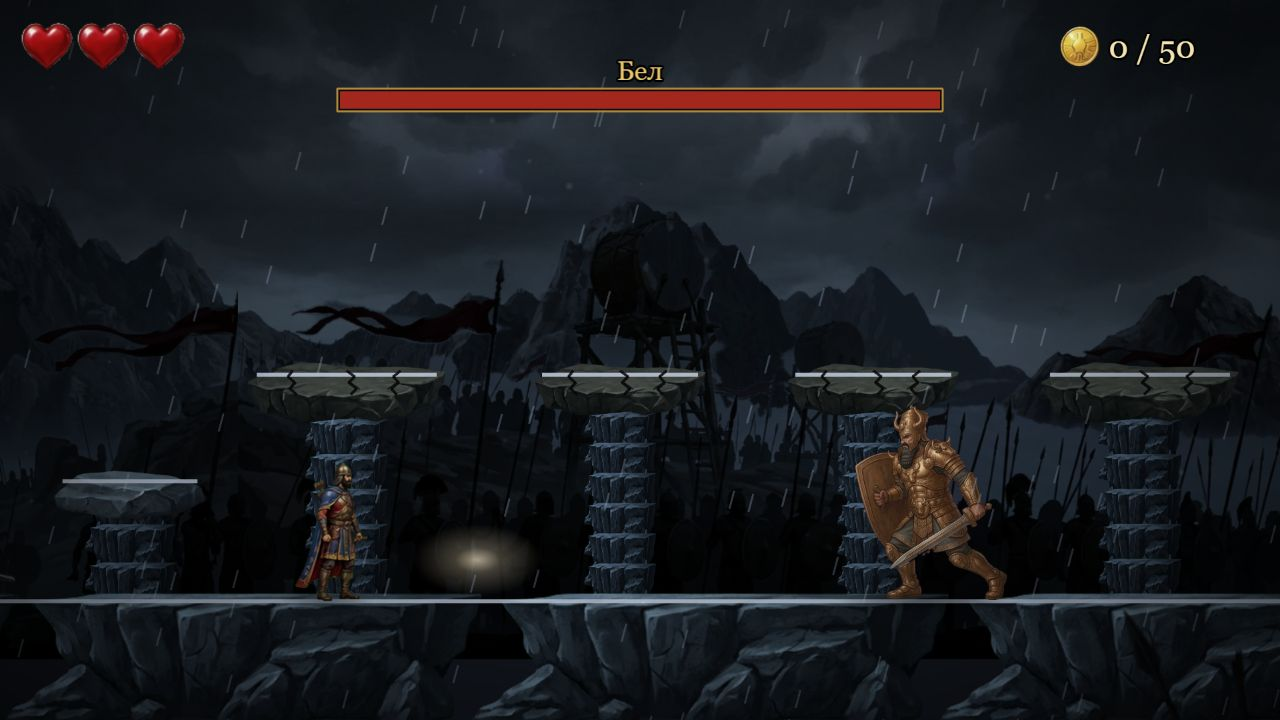
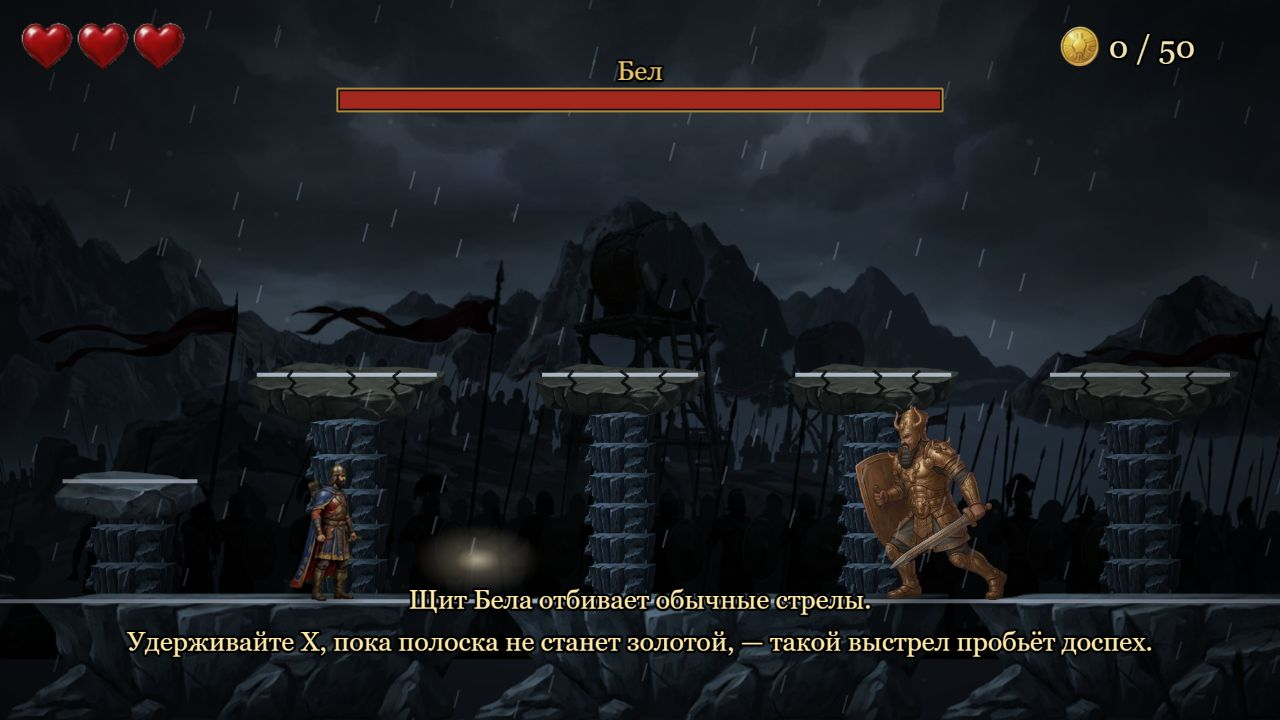
Подсказки в бою с Белом: как ранить его заряженным выстрелом (на трёх языках)

Changed region(s): [[0.0938, 0.825, 0.9062, 0.9167], [0.2188, 0.6417, 0.2812, 0.8556]]

diff --git a/src/i18n.js b/src/i18n.js
@@ -28,6 +28,8 @@ const TEXT = {
     pause: 'Пауза',
     pauseHint: 'Esc — продолжить     M — выйти в меню',
     boss: 'Бел',
+    'boss.hint': 'Щит Бела отбивает обычные стрелы.\nУдерживайте X, пока полоска не станет золотой, — такой выстрел пробьёт доспех.',
+    'boss.hintShort': 'Стрела отскочила! Удерживайте X до золотой полоски.',
     heartReward: '+1 сердце',
     debug: 'ОТЛАДКА  1–4: уровень   G: неуязвимость {n}',
     on: 'ВКЛ',
@@ -90,6 +92,8 @@ const TEXT = {
     pause: 'Paused',
     pauseHint: 'Esc — resume     M — quit to menu',
     boss: 'Bel',
+    'boss.hint': 'Bel’s shield deflects ordinary arrows.\nHold X until the bar turns gold — that shot will pierce his armour.',
+    'boss.hintShort': 'The arrow bounced off! Hold X until the bar turns gold.',
     heartReward: '+1 heart',
     debug: 'DEBUG  1–4: level   G: invulnerable {n}',
     on: 'ON',
@@ -151,6 +155,8 @@ const TEXT = {
     pause: 'Դադար',
     pauseHint: 'Esc — շարունակել     M — դուրս գալ ընտրացանկ',
     boss: 'Բել',
+    'boss.hint': 'Բելի վահանը ետ է մղում սովորական նետերը։\nՊահեք X-ը, մինչև գոտին ոսկեգույն դառնա. այդ կրակոցը կծակի զրահը։',
+    'boss.hintShort': 'Նետը ետ թռավ։ Պահեք X-ը մինչև ոսկեգույն գոտին։',
     heartReward: '+1 սիրտ',
     debug: 'ՍՏՈՒԳՈՒՄ  1–4՝ մակարդակ   G՝ անխոցելիություն {n}',
     on: 'ՄԻԱՑ',

diff --git a/src/scenes/Game.js b/src/scenes/Game.js
@@ -54,6 +54,8 @@ export default class Game extends Phaser.Scene {
     this.boss = null;
     this.bossDown = false;
     this.dbg = null;
+    this.hintText = null;
+    this.hintUntil = 0;
 
     this.physics.world.setBounds(0, -600, level.width, BOTTOM + 900);
     this.physics.world.setBoundsCollision(true, true, false, false);
@@ -377,6 +379,21 @@ export default class Game extends Phaser.Scene {
     if (this.game.sfx) this.game.sfx.play('heart');
     const label = this.add.text(pl.x, pl.y - 240, t('heartReward'), { fontFamily: 'Georgia, serif', fontSize: 44, color: '#ffd75e', stroke: '#000', strokeThickness: 6 }).setOrigin(0.5).setDepth(95);
     this.tweens.add({ targets: label, y: label.y - 90, alpha: 0, duration: 1400, onComplete: () => label.destroy() });
+  }
+
+  // подсказка внизу экрана на несколько секунд (например, как ранить Бела)
+  showHint(text, ms = 5000) {
+    if (!this.hintText) {
+      this.hintText = this.add.text(GAME_W / 2, GAME_H - 150, '', {
+        fontFamily: 'Georgia, "Times New Roman", Sylfaen, serif', fontSize: 40, color: '#ffe9a8', align: 'center',
+        stroke: '#000000', strokeThickness: 7, lineSpacing: 10,
+      }).setOrigin(0.5).setScrollFactor(0).setDepth(96).setAlpha(0);
+    }
+    this.hintText.setText(text);
+    this.hintUntil = this.time.now + ms;
+    this.tweens.killTweensOf(this.hintText);
+    this.tweens.add({ targets: this.hintText, alpha: 1, duration: 300 });
+    this.tweens.add({ targets: this.hintText, alpha: 0, duration: 600, delay: ms });
   }
 
   // брызги крови в точке (x, y): n капель

diff --git a/src/entities/Boss.js b/src/entities/Boss.js
@@ -2,6 +2,7 @@ import Phaser from 'phaser';
 import { BOSS, BLOOD } from '../config.js';
 import Enemy from './Enemy.js';
 import { SHEET_INFO } from '../sprites.js';
+import { t } from '../i18n.js';
 
 // номера кадров на листе bel-sheet
 const FRAME = { stand: 5, windup: 2, strike: 3 };
@@ -102,6 +103,8 @@ export default class Boss extends Phaser.Physics.Arcade.Sprite {
     this.state = 'idle';
     this.timer = time + 1600;
     if (this.scene.game.sfx) this.scene.game.sfx.play('horn');
+    // сразу объясняем, как ранить Бела
+    this.scene.showHint(t('boss.hint'), 8000);
   }
 
   update(time) {
@@ -281,6 +284,8 @@ export default class Boss extends Phaser.Physics.Arcade.Sprite {
       a.spent = true;
       a.setVelocity(-a.body.velocity.x * 0.4, -300);
       if (sfx) sfx.play('clang');
+      // напоминаем про заряженный выстрел (не чаще раза в несколько секунд)
+      if (time > scene.hintUntil + 1500) scene.showHint(t('boss.hintShort'), 3500);
       return;
     }
     scene.arrows.kill(a);
